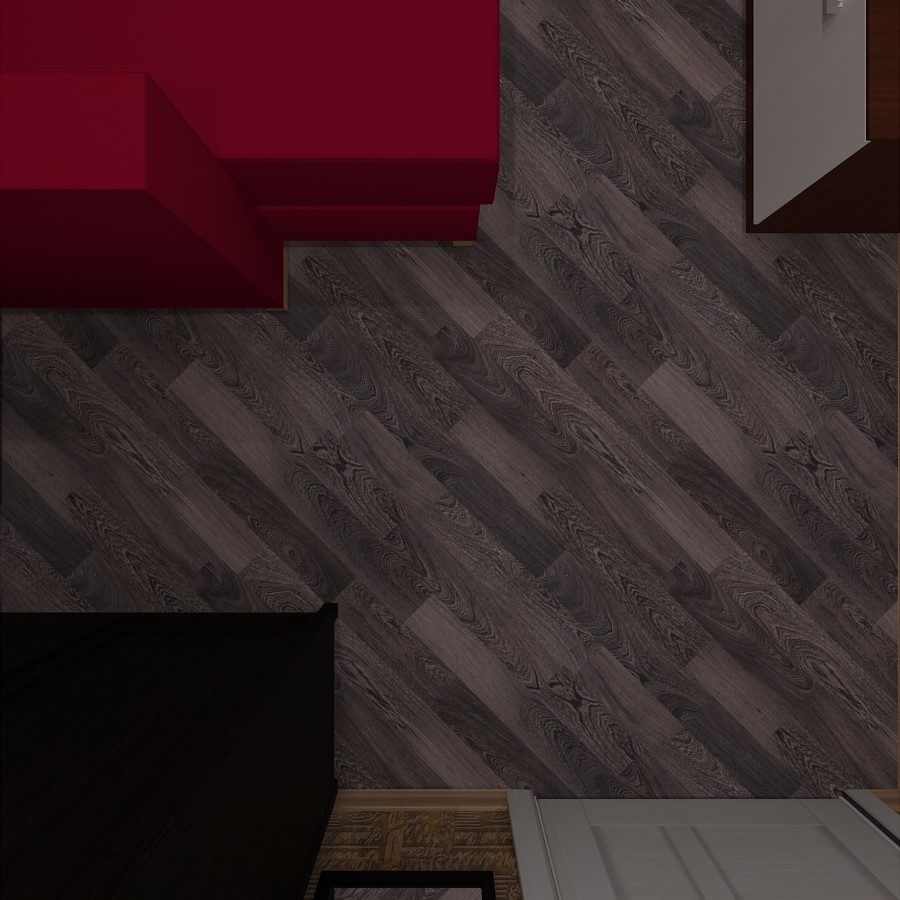
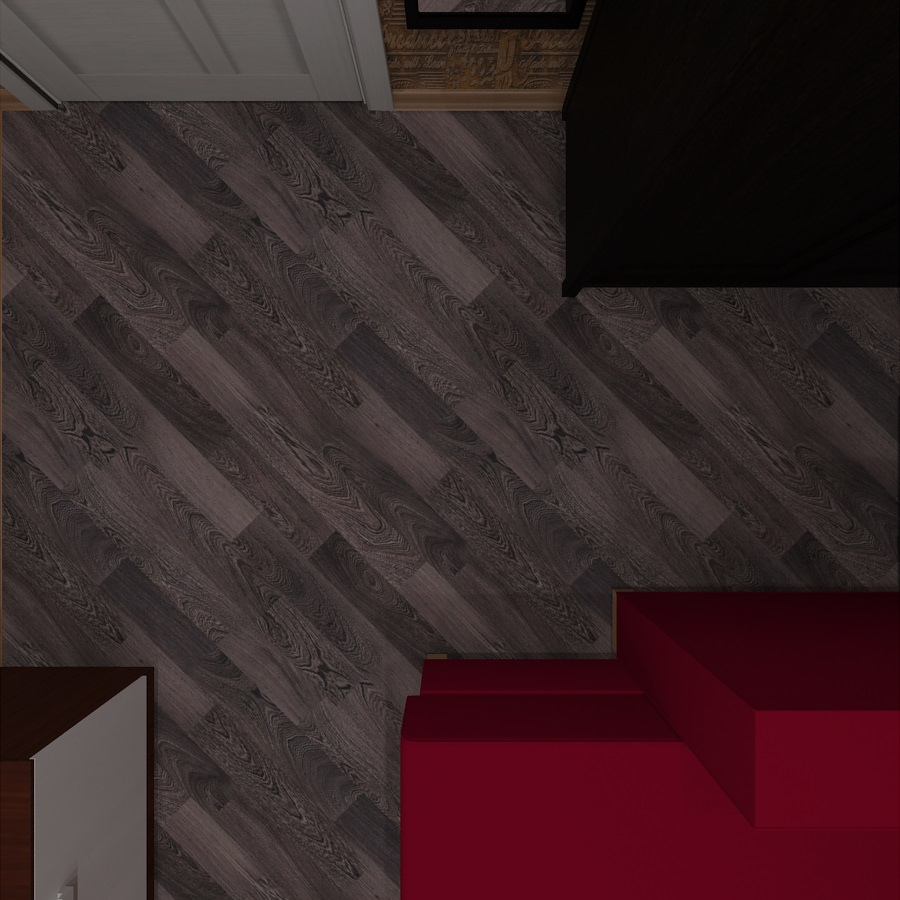
10 rotate texture

diff --git a/script.js b/script.js
@@ -121,15 +121,45 @@ function getTextureCube(ind)
 	var loader = new THREE.CubeTextureLoader();	
 	//loader.setCrossOrigin('anonymous');
 	//loader.setCrossOrigin('');
-	var textureCube = loader.load(urls, function(texture){ console.log('done loading texture', texture); });
+	var textureCube = loader.load(urls, function(texture)
+	{ 
+		textureCube.image[2] = rotateCanvasImagePanorame(textureCube.image[2]);
+		textureCube.image[3] = rotateCanvasImagePanorame(textureCube.image[3]);	
+	});
 	
-	console.log(7777, textureCube);
+
 
 	return textureCube;
 }
 
-
-
+function rotateCanvasImagePanorame(img)
+{
+	var canvas = document.createElement("canvas");
+	var ctx = canvas.getContext("2d");	
+	var imgNew = new Image();
+	
+	canvas.width = img.width;
+	canvas.height = img.height;
+	
+	var ang = 180; //angle
+	var cache = img; //cache the local copy of image element for future reference
+	
+	ctx.save(); //saves the state of canvas
+	ctx.fillStyle = 'rgba(255,255,255,1)';
+	ctx.fillRect(0, 0, canvas.width, canvas.height);	
+	ctx.translate(img.width, img.height); //let translate
+	ctx.rotate(Math.PI / 180 * ang); //increment the angle and rotate the image 
+	ctx.drawImage(img, 0, 0, img.width, img.height); //draw the image ;)
+	ctx.restore(); //restore the state of canvas	
+	
+	
+	imgNew.src = img.src; //img	
+	
+	var texture = new THREE.Texture(canvas);
+	texture.needsUpdate = true;		
+	
+	return texture.image;
+}
 
 
 
